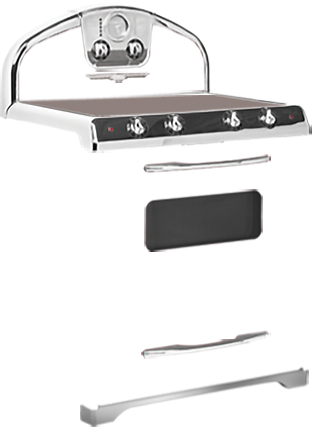
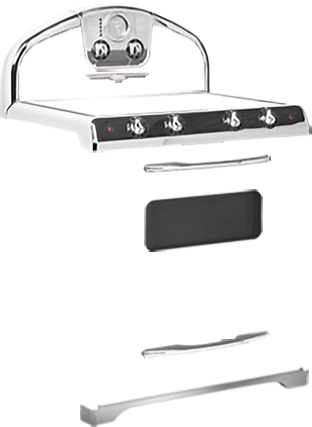
stage1 css fixes

Changed region(s): [[0.0577, 0.2131, 0.8942, 0.274]]

diff --git a/src/main.styles.js b/src/main.styles.js
@@ -15,23 +15,25 @@ const MainStyles = () => {
         },
         '.parentKitchenImageBox': {
           position: 'relative',
-          top: 0,
-          left: 0,
+          top: '0',
+          left: '0',
+          display: 'flex',
         },
         '.parentApplianceImageBox': {
           position: 'absolute',
-          top: 0,
-          left: 0,
+          top: '0',
+          left: '0',
         },
         '.firstChildImageBox': {
           position: 'relative',
-          top: 0,
-          left: 0,
+          top: '0',
+          left: '0',
         },
         '.childImageBox': {
           position: 'absolute',
-          top: 0,
-          left: 0,
+          top: '0',
+          left: '0',
+        },
         '.VisualizerHeading': {
           marginTop: '50px',
           marginBottom: '40px',
@@ -78,7 +80,7 @@ const MainStyles = () => {
           fontWeight: '700',
           cursor: 'pointer',
         },
-        '.MuiTooltip-tooltip': {
+        '.MuiTooltip-popper .MuiTooltip-tooltip': {
           color: '#54595f',
           padding: '10px 10px',
           fontSize: '12px',
@@ -89,7 +91,7 @@ const MainStyles = () => {
           fontFamily: "Poppins', 'sans-serif",
           fontWeight: '700',
           textTransform: 'uppercase',
-          marginBottom: '0!important',
+          marginBottom: '10px',
         },
         '.HeaderRightSide': {
           display: 'flex',
@@ -149,12 +151,13 @@ const MainStyles = () => {
           fontWeight: '600',
           textTransform: 'uppercase',
         },
-        '.MainKitchenSection img.KitchenImage': {
+        '.MainKitchenSection .parentKitchenImageBox img': {
           width: '100%',
         },
         '.MainKitchenSection': {
           display: 'flex',
           position: 'relative',
+          minHeight: '550px',
         },
         '.CommonIconBox': {
           position: 'absolute',
@@ -258,12 +261,26 @@ const MainStyles = () => {
         '.ModalInfo': {
           textAlign: 'center',
           padding: '15px 15px',
-          width: 'calc( 50% - 30px)',
+          // width: 'calc( 50% - 30px)',
+          maxWidth: 'calc( 29% - 30px)',
+          // minWidth: 'calc( 29% - 30px)',
+        },
+        '.ModalBox': {
+          paddingLeft: '35px',
+        },
+        '.ModalInfo img': {
+          cursor: 'pointer',
+        },
+        '.ModalInfo .MuiTypography-body2': {
+          maxWidth: '180px',
+          cursor: 'pointer',
         },
         '.ModalContentBox': {
           display: 'flex',
           flexWrap: 'wrap',
-          height: '450px',
+          // height: '450px',
+          // minHeight: '260px',
+          maxHeight: '270px',
           overflowX: 'auto',
           alignItems: 'flex-start',
         },
@@ -274,7 +291,7 @@ const MainStyles = () => {
         '.ModalContentBoxThird .ModalHeading': {
           marginBottom: '10px',
         },
-        '.ModalHeading.LoopBox h6': {
+        '.ModalHeading h6': {
           textTransform: 'uppercase',
         },
         '.ModalContentBoxThird::-webkit-scrollbar': {
@@ -480,6 +497,29 @@ const MainStyles = () => {
         },
         '.PricingTotalInfo h3': {
           fontWeight: '600',
+        },
+        '.parentApplianceContainer': {
+          position: 'relative',
+          maxWidth: '450px',
+          margin: '20px 0px',
+          display: 'flex',
+          width: '100%',
+          height: '100%',
+        },
+        '.parentApplianceContainer .parentApplianceImageBox': {
+          left: '50%',
+          transform: 'translate(-50%, 0px)',
+        },
+        '.ApplianceBoxRight .MuiButtonBase-root.MuiAccordionSummary-root': {
+          backgroundColor: 'transparent',
+          fontWeight: '600',
+          margin: '0px 0px',
+        },
+        '.ApplianceBoxRight .MuiAccordion-root::before': {
+          display: 'none',
+        },
+        '.ApplianceBoxRight .MuiAccordionSummary-content': {
+          margin: '0px 0px',
         },
       }}
     />

diff --git a/src/screens/Product/ProductStudioStage1/ProductStudioStage1.js b/src/screens/Product/ProductStudioStage1/ProductStudioStage1.js
@@ -145,9 +145,11 @@ const ProductStudioStage1 = () => {
                     30" 4-Burner Gas Top, Self-Clean
                   </Typography>
                 </Box>
-                <picture className="parentApplianceImageBox">
-                  {loadConfiguredImage()}
-                </picture>
+                <Box className="parentApplianceContainer">
+                  <picture className="parentApplianceImageBox">
+                    {loadConfiguredImage()}
+                  </picture>
+                </Box>
               </Box>
               <Box className="ApplianceBoxRight">
                 <ApplianceOptions

diff --git a/src/components/ApplianceOptions/index.js b/src/components/ApplianceOptions/index.js
@@ -35,7 +35,7 @@ export default function ApplianceOptions({
         {item.src && (
           <img
             className=""
-            style={{ width: 80, height: 80 }}
+            // style={{ width: 80, height: 80 }}
             src={require(`../../assets/${item.src}`)}
             alt="Range"
           />
